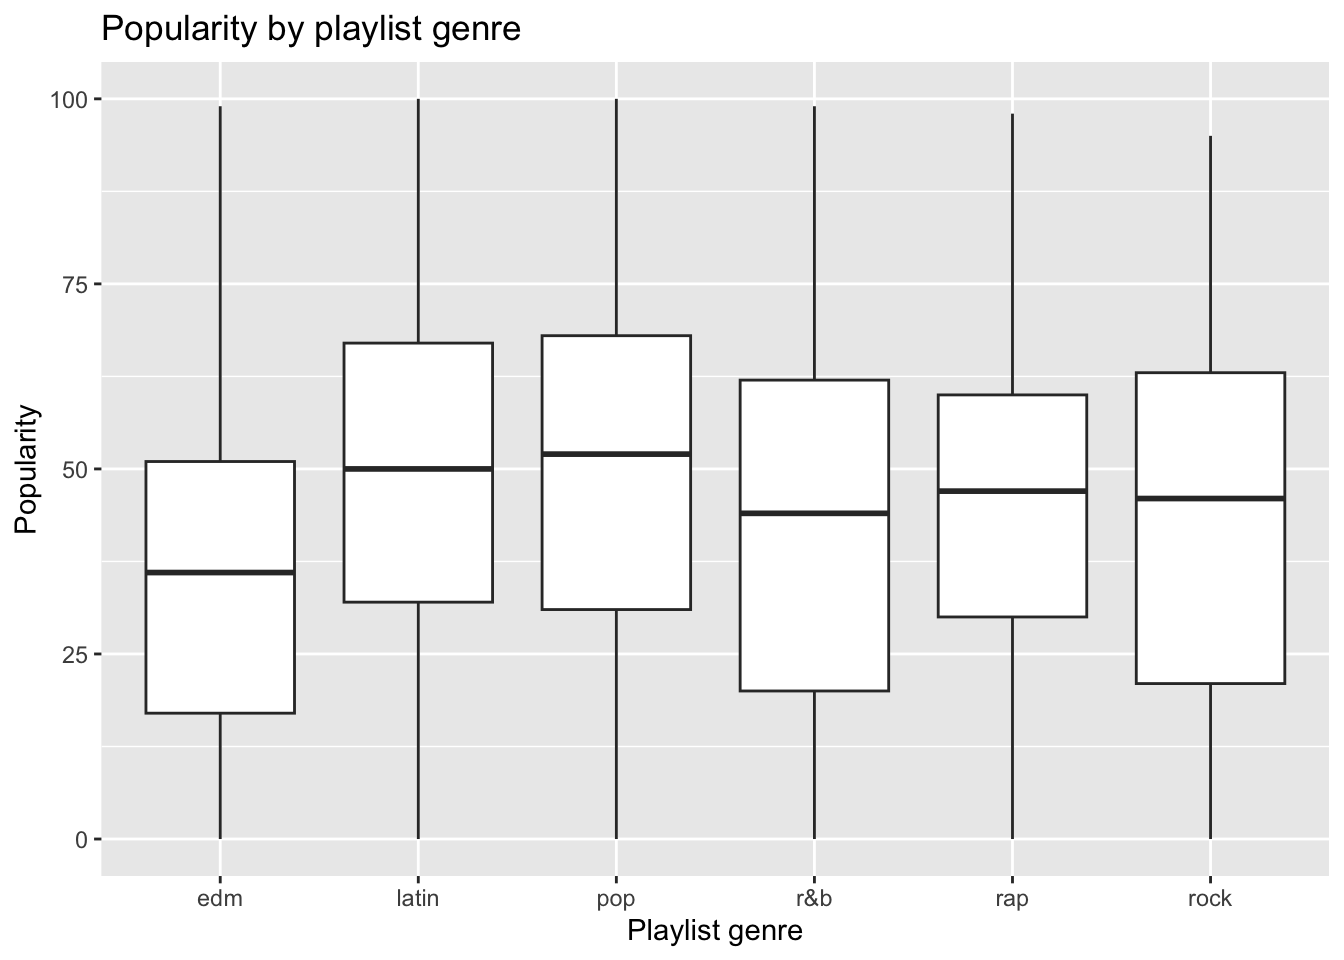
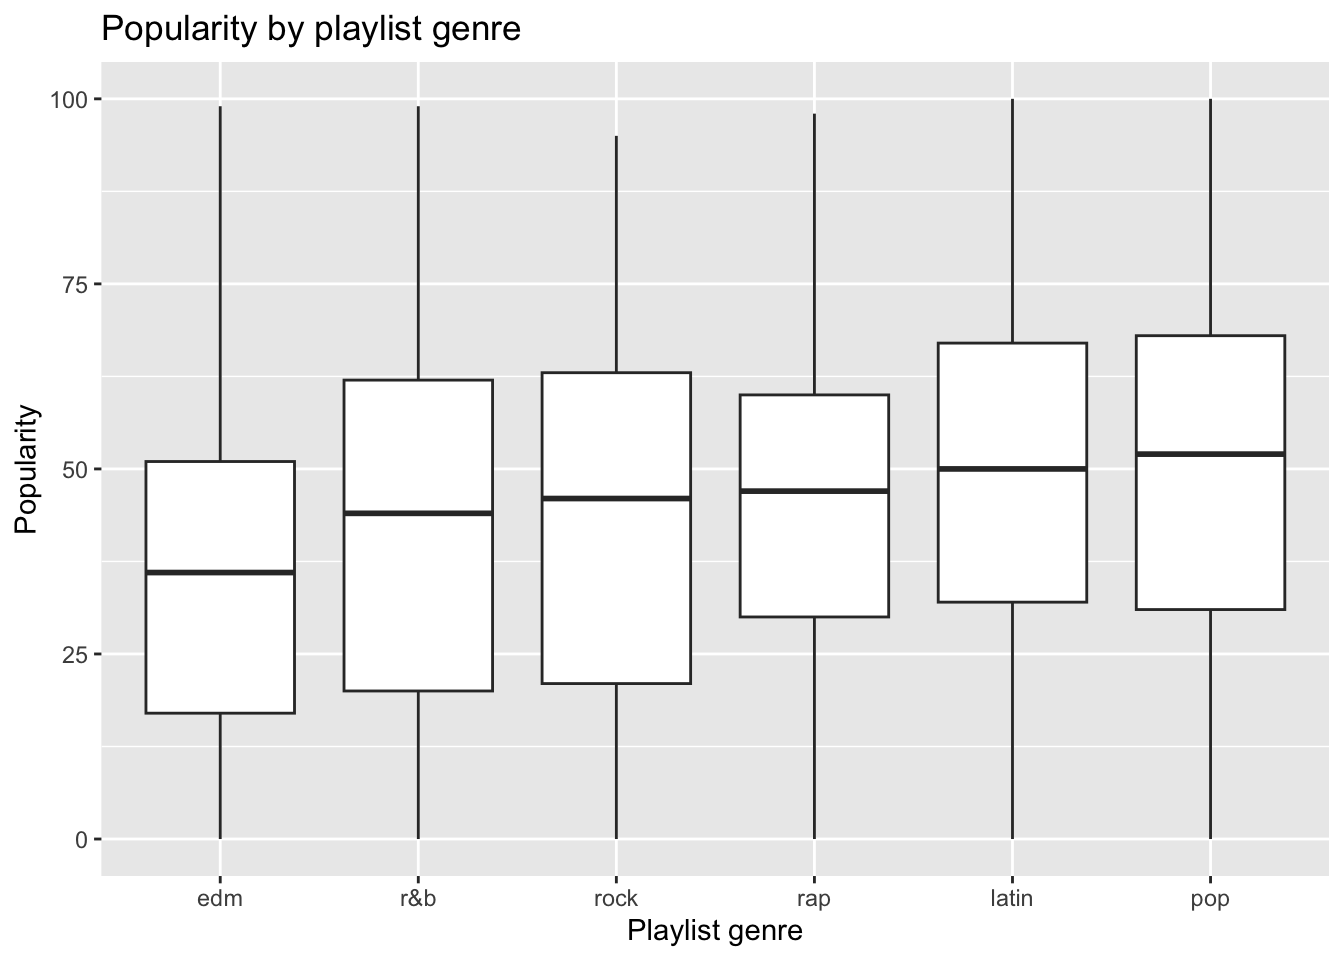
deleted about, added description to graphs

diff --git a/docs/DataViz/squirrels.html b/docs/DataViz/squirrels.html
@@ -303,10 +303,6 @@ pre > code.sourceCode > span > a:first-child::before { text-decoration: underlin
     <a class="nav-link" href="../index.html"> 
 <span class="menu-text">Home</span></a>
   </li>  
-  <li class="nav-item">
-    <a class="nav-link" href="../about.html"> 
-<span class="menu-text">About Me</span></a>
-  </li>  
   <li class="nav-item dropdown ">
     <a class="nav-link dropdown-toggle" href="#" id="nav-menu-data-viz" role="link" data-bs-toggle="dropdown" aria-expanded="false">
  <span class="menu-text">Data Viz</span>
@@ -379,6 +375,7 @@ pre > code.sourceCode > span > a:first-child::before { text-decoration: underlin
 
 <p><strong>Data Source:</strong> Data Science Learning Community. (2023). <em>Tidy Tuesday: 2023-05-23</em>. TidyTuesday. <a href="https://github.com/rfordatascience/tidytuesday/tree/main/data/2023/2023-05-23">GitHub</a></p>
 <p><strong>Original data source:</strong> NYC Open Data. (2018). <em>2018 Central Park Squirrel Census – Squirrel Data</em>. City of New York. <a href="https://data.cityofnewyork.us/Environment/2018-Central-Park-Squirrel-Census-Squirrel-Data/vfnx-vebw/about_data">NYC Open Data</a></p>
+<p>The scatterplot illustrates the location squirrels were spotted in Central Park. They were mostly adults squirrels with a few juveniles. One thing to note on the graph is the empty space in the middle of the park, which is the where the lake is located, hence, no squirrels were spotted.</p>
 <div class="cell">
 <details class="code-fold">
 <summary>Code</summary>
@@ -908,29 +905,30 @@ pre > code.sourceCode > span > a:first-child::before { text-decoration: underlin
 <span id="cb4-21"><a href="#cb4-21" aria-hidden="true" tabindex="-1"></a>**Original data source:**</span>
 <span id="cb4-22"><a href="#cb4-22" aria-hidden="true" tabindex="-1"></a> NYC Open Data. (2018). *2018 Central Park Squirrel Census – Squirrel Data*. City of New York. <span class="co">[</span><span class="ot">NYC Open Data</span><span class="co">](https://data.cityofnewyork.us/Environment/2018-Central-Park-Squirrel-Census-Squirrel-Data/vfnx-vebw/about_data)</span></span>
 <span id="cb4-23"><a href="#cb4-23" aria-hidden="true" tabindex="-1"></a></span>
-<span id="cb4-24"><a href="#cb4-24" aria-hidden="true" tabindex="-1"></a></span>
-<span id="cb4-27"><a href="#cb4-27" aria-hidden="true" tabindex="-1"></a><span class="in">```{r}</span></span>
-<span id="cb4-28"><a href="#cb4-28" aria-hidden="true" tabindex="-1"></a><span class="fu">library</span>(tidyverse)</span>
-<span id="cb4-29"><a href="#cb4-29" aria-hidden="true" tabindex="-1"></a><span class="fu">library</span>(ggplot2)</span>
-<span id="cb4-30"><a href="#cb4-30" aria-hidden="true" tabindex="-1"></a>squirrel_data <span class="ot">&lt;-</span> readr<span class="sc">::</span><span class="fu">read_csv</span>(<span class="st">'https://raw.githubusercontent.com/rfordatascience/tidytuesday/main/data/2023/2023-05-23/squirrel_data.csv'</span>)</span>
-<span id="cb4-31"><a href="#cb4-31" aria-hidden="true" tabindex="-1"></a><span class="fu">view</span>(squirrel_data)</span>
-<span id="cb4-32"><a href="#cb4-32" aria-hidden="true" tabindex="-1"></a><span class="in">```</span></span>
-<span id="cb4-33"><a href="#cb4-33" aria-hidden="true" tabindex="-1"></a></span>
-<span id="cb4-36"><a href="#cb4-36" aria-hidden="true" tabindex="-1"></a><span class="in">```{r}</span></span>
-<span id="cb4-37"><a href="#cb4-37" aria-hidden="true" tabindex="-1"></a>squirrel_data <span class="ot">&lt;-</span> squirrel_data <span class="sc">|&gt;</span> </span>
-<span id="cb4-38"><a href="#cb4-38" aria-hidden="true" tabindex="-1"></a>  <span class="fu">filter</span>(Age <span class="sc">%in%</span> <span class="fu">c</span>(<span class="st">"Adult"</span>, <span class="st">"Juvenile"</span>))</span>
-<span id="cb4-39"><a href="#cb4-39" aria-hidden="true" tabindex="-1"></a><span class="in">```</span></span>
-<span id="cb4-40"><a href="#cb4-40" aria-hidden="true" tabindex="-1"></a></span>
-<span id="cb4-43"><a href="#cb4-43" aria-hidden="true" tabindex="-1"></a><span class="in">```{r}</span></span>
-<span id="cb4-44"><a href="#cb4-44" aria-hidden="true" tabindex="-1"></a><span class="fu">ggplot</span>(squirrel_data, <span class="fu">aes</span>(<span class="at">x =</span> X, <span class="at">y =</span> Y, <span class="at">color =</span> Age))<span class="sc">+</span></span>
-<span id="cb4-45"><a href="#cb4-45" aria-hidden="true" tabindex="-1"></a>  <span class="fu">geom_point</span>(</span>
-<span id="cb4-46"><a href="#cb4-46" aria-hidden="true" tabindex="-1"></a>    <span class="at">size =</span> <span class="dv">1</span>,</span>
-<span id="cb4-47"><a href="#cb4-47" aria-hidden="true" tabindex="-1"></a>    <span class="at">alpha =</span> <span class="fl">0.3</span>)<span class="sc">+</span></span>
-<span id="cb4-48"><a href="#cb4-48" aria-hidden="true" tabindex="-1"></a>  <span class="fu">labs</span>(</span>
-<span id="cb4-49"><a href="#cb4-49" aria-hidden="true" tabindex="-1"></a>    <span class="at">x =</span> <span class="st">"Longtitude"</span>,</span>
-<span id="cb4-50"><a href="#cb4-50" aria-hidden="true" tabindex="-1"></a>    <span class="at">y =</span> <span class="st">"Latitude"</span>,</span>
-<span id="cb4-51"><a href="#cb4-51" aria-hidden="true" tabindex="-1"></a>    <span class="at">title =</span> <span class="st">"Adults and Juvenile Squirrels Sighted in Central Park"</span>)</span>
-<span id="cb4-52"><a href="#cb4-52" aria-hidden="true" tabindex="-1"></a><span class="in">```</span></span>
+<span id="cb4-24"><a href="#cb4-24" aria-hidden="true" tabindex="-1"></a>The scatterplot illustrates the location squirrels were spotted in Central Park. They were mostly adults squirrels with a few juveniles. One thing to note on the graph is the empty space in the middle of the park, which is the where the lake is located, hence, no squirrels were spotted.   </span>
+<span id="cb4-25"><a href="#cb4-25" aria-hidden="true" tabindex="-1"></a></span>
+<span id="cb4-28"><a href="#cb4-28" aria-hidden="true" tabindex="-1"></a><span class="in">```{r}</span></span>
+<span id="cb4-29"><a href="#cb4-29" aria-hidden="true" tabindex="-1"></a><span class="fu">library</span>(tidyverse)</span>
+<span id="cb4-30"><a href="#cb4-30" aria-hidden="true" tabindex="-1"></a><span class="fu">library</span>(ggplot2)</span>
+<span id="cb4-31"><a href="#cb4-31" aria-hidden="true" tabindex="-1"></a>squirrel_data <span class="ot">&lt;-</span> readr<span class="sc">::</span><span class="fu">read_csv</span>(<span class="st">'https://raw.githubusercontent.com/rfordatascience/tidytuesday/main/data/2023/2023-05-23/squirrel_data.csv'</span>)</span>
+<span id="cb4-32"><a href="#cb4-32" aria-hidden="true" tabindex="-1"></a><span class="fu">view</span>(squirrel_data)</span>
+<span id="cb4-33"><a href="#cb4-33" aria-hidden="true" tabindex="-1"></a><span class="in">```</span></span>
+<span id="cb4-34"><a href="#cb4-34" aria-hidden="true" tabindex="-1"></a></span>
+<span id="cb4-37"><a href="#cb4-37" aria-hidden="true" tabindex="-1"></a><span class="in">```{r}</span></span>
+<span id="cb4-38"><a href="#cb4-38" aria-hidden="true" tabindex="-1"></a>squirrel_data <span class="ot">&lt;-</span> squirrel_data <span class="sc">|&gt;</span> </span>
+<span id="cb4-39"><a href="#cb4-39" aria-hidden="true" tabindex="-1"></a>  <span class="fu">filter</span>(Age <span class="sc">%in%</span> <span class="fu">c</span>(<span class="st">"Adult"</span>, <span class="st">"Juvenile"</span>))</span>
+<span id="cb4-40"><a href="#cb4-40" aria-hidden="true" tabindex="-1"></a><span class="in">```</span></span>
+<span id="cb4-41"><a href="#cb4-41" aria-hidden="true" tabindex="-1"></a></span>
+<span id="cb4-44"><a href="#cb4-44" aria-hidden="true" tabindex="-1"></a><span class="in">```{r}</span></span>
+<span id="cb4-45"><a href="#cb4-45" aria-hidden="true" tabindex="-1"></a><span class="fu">ggplot</span>(squirrel_data, <span class="fu">aes</span>(<span class="at">x =</span> X, <span class="at">y =</span> Y, <span class="at">color =</span> Age))<span class="sc">+</span></span>
+<span id="cb4-46"><a href="#cb4-46" aria-hidden="true" tabindex="-1"></a>  <span class="fu">geom_point</span>(</span>
+<span id="cb4-47"><a href="#cb4-47" aria-hidden="true" tabindex="-1"></a>    <span class="at">size =</span> <span class="dv">1</span>,</span>
+<span id="cb4-48"><a href="#cb4-48" aria-hidden="true" tabindex="-1"></a>    <span class="at">alpha =</span> <span class="fl">0.3</span>)<span class="sc">+</span></span>
+<span id="cb4-49"><a href="#cb4-49" aria-hidden="true" tabindex="-1"></a>  <span class="fu">labs</span>(</span>
+<span id="cb4-50"><a href="#cb4-50" aria-hidden="true" tabindex="-1"></a>    <span class="at">x =</span> <span class="st">"Longtitude"</span>,</span>
+<span id="cb4-51"><a href="#cb4-51" aria-hidden="true" tabindex="-1"></a>    <span class="at">y =</span> <span class="st">"Latitude"</span>,</span>
+<span id="cb4-52"><a href="#cb4-52" aria-hidden="true" tabindex="-1"></a>    <span class="at">title =</span> <span class="st">"Adults and Juvenile Squirrels Sighted in Central Park"</span>)</span>
+<span id="cb4-53"><a href="#cb4-53" aria-hidden="true" tabindex="-1"></a><span class="in">```</span></span>
 </code></pre></div><button title="Copy to Clipboard" class="code-copy-button" data-in-quarto-modal=""><i class="bi"></i></button></div>
 </div></div></div></div></div>
 </div> <!-- /content -->

diff --git a/docs/DataViz/spotify.html b/docs/DataViz/spotify.html
@@ -303,10 +303,6 @@ pre > code.sourceCode > span > a:first-child::before { text-decoration: underlin
     <a class="nav-link" href="../index.html"> 
 <span class="menu-text">Home</span></a>
   </li>  
-  <li class="nav-item">
-    <a class="nav-link" href="../about.html"> 
-<span class="menu-text">About Me</span></a>
-  </li>  
   <li class="nav-item dropdown ">
     <a class="nav-link dropdown-toggle" href="#" id="nav-menu-data-viz" role="link" data-bs-toggle="dropdown" aria-expanded="false">
  <span class="menu-text">Data Viz</span>
@@ -379,6 +375,7 @@ pre > code.sourceCode > span > a:first-child::before { text-decoration: underlin
 
 <p><strong>Data Source:</strong> Data Science Learning Community. (2020). <em>Tidy Tuesday: 2020-01-21</em>. TidyTuesday. <a href="https://github.com/rfordatascience/tidytuesday/tree/main/data/2020/2020-01-21">GitHub</a></p>
 <p><strong>Original data source / spotifyr:</strong> Thompson, C., Parry, J., Phipps, D., &amp; Wolff, T. (2020). <em>spotifyr: R wrapper for the Spotify Web API.</em> <a href="https://www.rcharlie.com/spotifyr/">spotifyr</a></p>
+<p>The boxplot shows the popularity rating of different genre on Spotify. Pop music followed by latin music have popularities just over 50, while EDM has the lowest popularity.</p>
 <div class="cell">
 <details class="code-fold">
 <summary>Code</summary>
@@ -391,11 +388,15 @@ pre > code.sourceCode > span > a:first-child::before { text-decoration: underlin
 <div class="cell">
 <details class="code-fold">
 <summary>Code</summary>
-<div class="code-copy-outer-scaffold"><div class="sourceCode cell-code" id="cb2"><pre class="sourceCode r code-with-copy"><code class="sourceCode r"><span id="cb2-1"><a href="#cb2-1" aria-hidden="true" tabindex="-1"></a><span class="fu">ggplot</span>(spotify_songs, <span class="fu">aes</span>(<span class="at">x =</span> playlist_genre, <span class="at">y =</span> track_popularity))<span class="sc">+</span></span>
-<span id="cb2-2"><a href="#cb2-2" aria-hidden="true" tabindex="-1"></a>    <span class="fu">geom_boxplot</span>()<span class="sc">+</span></span>
-<span id="cb2-3"><a href="#cb2-3" aria-hidden="true" tabindex="-1"></a>    <span class="fu">labs</span>(<span class="at">x =</span> <span class="st">"Playlist genre"</span>,</span>
-<span id="cb2-4"><a href="#cb2-4" aria-hidden="true" tabindex="-1"></a>    <span class="at">y =</span> <span class="st">"Popularity"</span>,</span>
-<span id="cb2-5"><a href="#cb2-5" aria-hidden="true" tabindex="-1"></a>    <span class="at">title =</span> <span class="st">"Popularity by playlist genre"</span>)</span></code></pre></div><button title="Copy to Clipboard" class="code-copy-button"><i class="bi"></i></button></div>
+<div class="code-copy-outer-scaffold"><div class="sourceCode cell-code" id="cb2"><pre class="sourceCode r code-with-copy"><code class="sourceCode r"><span id="cb2-1"><a href="#cb2-1" aria-hidden="true" tabindex="-1"></a><span class="fu">ggplot</span>(</span>
+<span id="cb2-2"><a href="#cb2-2" aria-hidden="true" tabindex="-1"></a>  spotify_songs, </span>
+<span id="cb2-3"><a href="#cb2-3" aria-hidden="true" tabindex="-1"></a>  <span class="fu">aes</span>(</span>
+<span id="cb2-4"><a href="#cb2-4" aria-hidden="true" tabindex="-1"></a>    <span class="at">x =</span> <span class="fu">reorder</span>(playlist_genre, track_popularity, <span class="at">FUN =</span> median),</span>
+<span id="cb2-5"><a href="#cb2-5" aria-hidden="true" tabindex="-1"></a>    <span class="at">y =</span> track_popularity))<span class="sc">+</span></span>
+<span id="cb2-6"><a href="#cb2-6" aria-hidden="true" tabindex="-1"></a>    <span class="fu">geom_boxplot</span>()<span class="sc">+</span></span>
+<span id="cb2-7"><a href="#cb2-7" aria-hidden="true" tabindex="-1"></a>    <span class="fu">labs</span>(<span class="at">x =</span> <span class="st">"Playlist genre"</span>,</span>
+<span id="cb2-8"><a href="#cb2-8" aria-hidden="true" tabindex="-1"></a>    <span class="at">y =</span> <span class="st">"Popularity"</span>,</span>
+<span id="cb2-9"><a href="#cb2-9" aria-hidden="true" tabindex="-1"></a>    <span class="at">title =</span> <span class="st">"Popularity by playlist genre"</span>)</span></code></pre></div><button title="Copy to Clipboard" class="code-copy-button"><i class="bi"></i></button></div>
 </details>
 <div class="cell-output-display">
 <div>
@@ -898,7 +899,7 @@ pre > code.sourceCode > span > a:first-child::before { text-decoration: underlin
 <span id="cb3-21"><a href="#cb3-21" aria-hidden="true" tabindex="-1"></a>**Original data source / spotifyr:**</span>
 <span id="cb3-22"><a href="#cb3-22" aria-hidden="true" tabindex="-1"></a>Thompson, C., Parry, J., Phipps, D., &amp; Wolff, T. (2020). *spotifyr: R wrapper for the Spotify Web API.*  <span class="co">[</span><span class="ot">spotifyr</span><span class="co">](https://www.rcharlie.com/spotifyr/)</span></span>
 <span id="cb3-23"><a href="#cb3-23" aria-hidden="true" tabindex="-1"></a></span>
-<span id="cb3-24"><a href="#cb3-24" aria-hidden="true" tabindex="-1"></a></span>
+<span id="cb3-24"><a href="#cb3-24" aria-hidden="true" tabindex="-1"></a>The boxplot shows the popularity rating of different genre on Spotify. Pop music followed by latin music have popularities just over 50, while EDM has the lowest popularity. </span>
 <span id="cb3-25"><a href="#cb3-25" aria-hidden="true" tabindex="-1"></a></span>
 <span id="cb3-28"><a href="#cb3-28" aria-hidden="true" tabindex="-1"></a><span class="in">```{r}</span></span>
 <span id="cb3-29"><a href="#cb3-29" aria-hidden="true" tabindex="-1"></a><span class="fu">library</span>(tidyverse)</span>
@@ -909,12 +910,16 @@ pre > code.sourceCode > span > a:first-child::before { text-decoration: underlin
 <span id="cb3-34"><a href="#cb3-34" aria-hidden="true" tabindex="-1"></a></span>
 <span id="cb3-35"><a href="#cb3-35" aria-hidden="true" tabindex="-1"></a></span>
 <span id="cb3-38"><a href="#cb3-38" aria-hidden="true" tabindex="-1"></a><span class="in">```{r}</span></span>
-<span id="cb3-39"><a href="#cb3-39" aria-hidden="true" tabindex="-1"></a><span class="fu">ggplot</span>(spotify_songs, <span class="fu">aes</span>(<span class="at">x =</span> playlist_genre, <span class="at">y =</span> track_popularity))<span class="sc">+</span></span>
-<span id="cb3-40"><a href="#cb3-40" aria-hidden="true" tabindex="-1"></a>    <span class="fu">geom_boxplot</span>()<span class="sc">+</span></span>
-<span id="cb3-41"><a href="#cb3-41" aria-hidden="true" tabindex="-1"></a>    <span class="fu">labs</span>(<span class="at">x =</span> <span class="st">"Playlist genre"</span>,</span>
-<span id="cb3-42"><a href="#cb3-42" aria-hidden="true" tabindex="-1"></a>    <span class="at">y =</span> <span class="st">"Popularity"</span>,</span>
-<span id="cb3-43"><a href="#cb3-43" aria-hidden="true" tabindex="-1"></a>    <span class="at">title =</span> <span class="st">"Popularity by playlist genre"</span>)</span>
-<span id="cb3-44"><a href="#cb3-44" aria-hidden="true" tabindex="-1"></a><span class="in">```</span></span>
+<span id="cb3-39"><a href="#cb3-39" aria-hidden="true" tabindex="-1"></a><span class="fu">ggplot</span>(</span>
+<span id="cb3-40"><a href="#cb3-40" aria-hidden="true" tabindex="-1"></a>  spotify_songs, </span>
+<span id="cb3-41"><a href="#cb3-41" aria-hidden="true" tabindex="-1"></a>  <span class="fu">aes</span>(</span>
+<span id="cb3-42"><a href="#cb3-42" aria-hidden="true" tabindex="-1"></a>    <span class="at">x =</span> <span class="fu">reorder</span>(playlist_genre, track_popularity, <span class="at">FUN =</span> median),</span>
+<span id="cb3-43"><a href="#cb3-43" aria-hidden="true" tabindex="-1"></a>    <span class="at">y =</span> track_popularity))<span class="sc">+</span></span>
+<span id="cb3-44"><a href="#cb3-44" aria-hidden="true" tabindex="-1"></a>    <span class="fu">geom_boxplot</span>()<span class="sc">+</span></span>
+<span id="cb3-45"><a href="#cb3-45" aria-hidden="true" tabindex="-1"></a>    <span class="fu">labs</span>(<span class="at">x =</span> <span class="st">"Playlist genre"</span>,</span>
+<span id="cb3-46"><a href="#cb3-46" aria-hidden="true" tabindex="-1"></a>    <span class="at">y =</span> <span class="st">"Popularity"</span>,</span>
+<span id="cb3-47"><a href="#cb3-47" aria-hidden="true" tabindex="-1"></a>    <span class="at">title =</span> <span class="st">"Popularity by playlist genre"</span>)</span>
+<span id="cb3-48"><a href="#cb3-48" aria-hidden="true" tabindex="-1"></a><span class="in">```</span></span>
 </code></pre></div><button title="Copy to Clipboard" class="code-copy-button" data-in-quarto-modal=""><i class="bi"></i></button></div>
 </div></div></div></div></div>
 </div> <!-- /content -->

diff --git a/docs/index.html b/docs/index.html
@@ -264,10 +264,6 @@ ul.task-list li input[type="checkbox"] {
     <a class="nav-link active" href="./index.html" aria-current="page"> 
 <span class="menu-text">Home</span></a>
   </li>  
-  <li class="nav-item">
-    <a class="nav-link" href="./about.html"> 
-<span class="menu-text">About Me</span></a>
-  </li>  
   <li class="nav-item dropdown ">
     <a class="nav-link dropdown-toggle" href="#" id="nav-menu-data-viz" role="link" data-bs-toggle="dropdown" aria-expanded="false">
  <span class="menu-text">Data Viz</span>
@@ -313,9 +309,6 @@ ul.task-list li input[type="checkbox"] {
   </a>
   <a href="https://github.com/Molly-L03" class="about-link" rel="" target="_blank">
      <span class="about-link-text">GitHub</span>
-  </a>
-  <a href="https://www.instagram.com/iammomo_l/" class="about-link" rel="" target="_blank">
-     <span class="about-link-text">Instagram</span>
   </a>
   <a href="https://www.instagram.com/mollyla.cam/" class="about-link" rel="" target="_blank">
      <span class="about-link-text">Photography</span>
